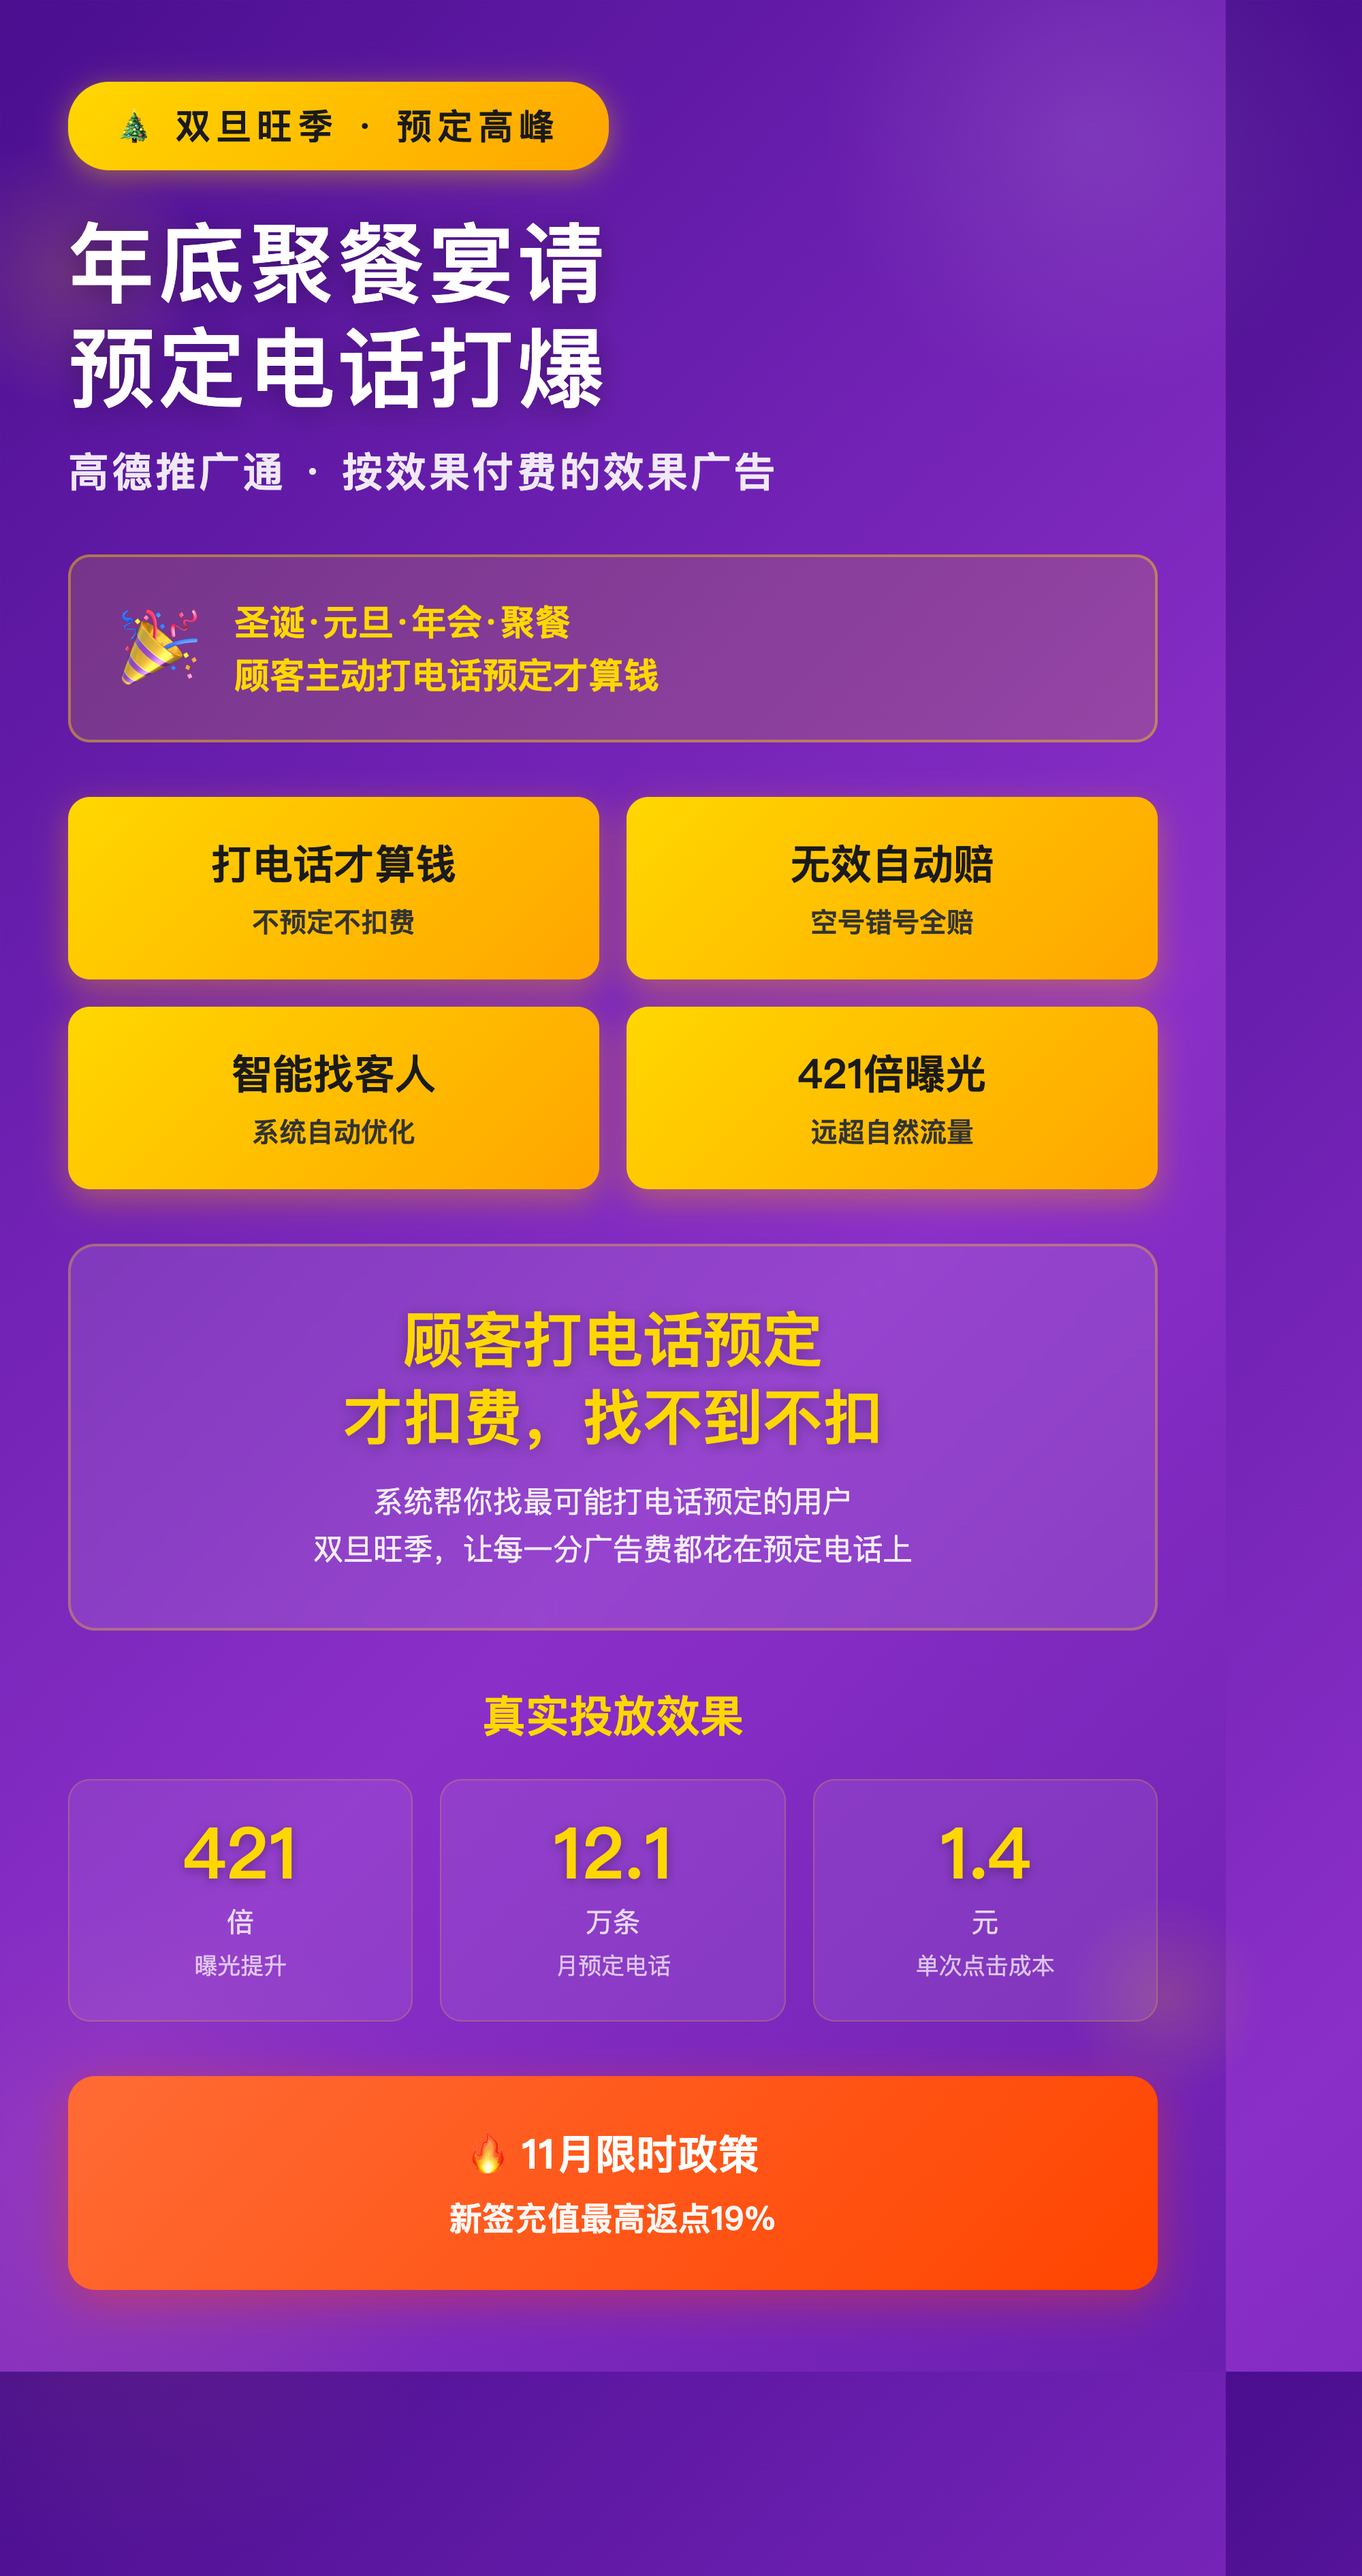
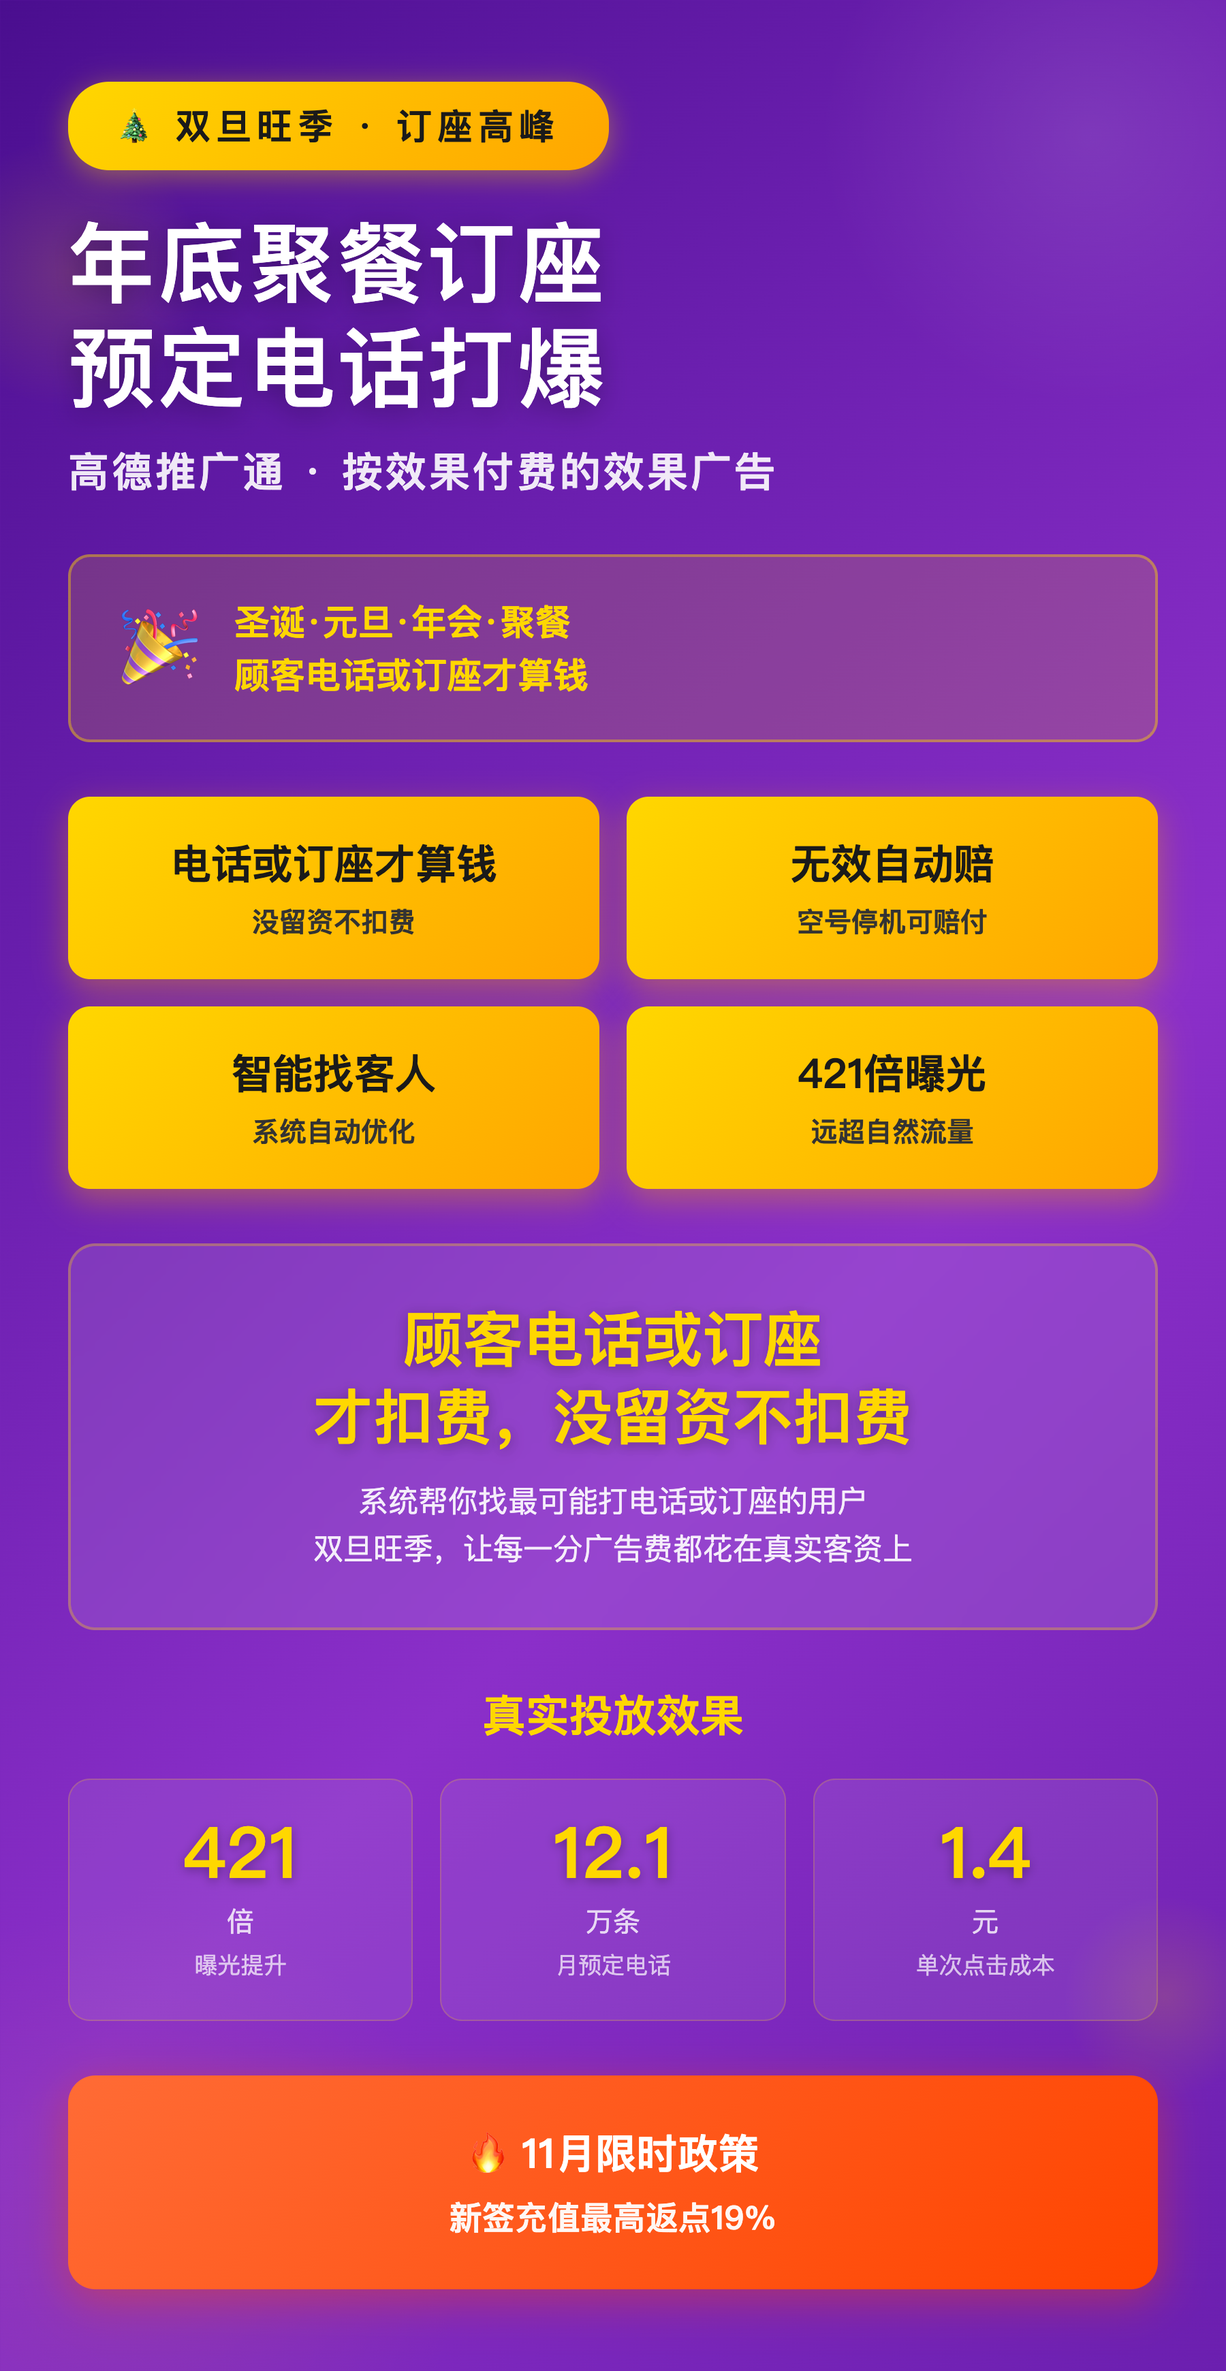
修正无效客资判定规则表述 + 更新双旦商户海报文案
培训页按《无效线索赔付规则说明》原文改为穷举4类（号码异常/3次回访无法接通/推销政府回访/找人应聘），
明确用户取消、未到店、单次未接不属于无效客资。
海报文案统一为"年底聚餐订座""顾客电话或订座才算钱，没留资不扣费"，去掉"一分钱不花"等绝对化表述。

diff --git a/ocpc-training.html b/ocpc-training.html
@@ -413,7 +413,7 @@ body{background:var(--cream);color:var(--dark);font-family:-apple-system,"PingFa
 <!-- 1F: 商户端营销海报 -->
 <div class="card" style="border:2px solid var(--gold);background:linear-gradient(135deg,#FFF8E1,#FFF3CD)">
 <h3>商户端营销海报（可直接转发商户）</h3>
-<p style="margin-bottom:14px">以下海报面向商户，绑定双旦年底聚餐宴请场景，突出"打电话预定才算钱"核心卖点，可直接用于朋友圈/社群传播。<span class="source-tag">内部制作</span></p>
+<p style="margin-bottom:14px">以下海报面向商户，绑定双旦年底聚餐订座场景，突出"电话或订座才算钱、没留资不扣费"核心卖点，可直接用于朋友圈/社群传播。<span class="source-tag">内部制作</span></p>
 <div style="display:grid;grid-template-columns:1fr 1fr;gap:20px;margin-bottom:14px">
 <div>
 <img src="客资海报_巨量风格.png" alt="客资产品商户营销海报-巨量风格" style="width:100%;border-radius:12px;box-shadow:0 4px 20px rgba(0,0,0,.15)">
@@ -558,7 +558,14 @@ body{background:var(--cream);color:var(--dark);font-family:-apple-system,"PingFa
 <h3 style="font-size:20px">无效客资赔付机制</h3>
 <p>2026年9月1日起生效，平台自动识别、自动赔付。<span class="source-tag">来源：赔付规则文档</span></p>
 
-<p style="margin-top:12px"><b>什么是"无效客资"？</b>系统判定的无效计费客资线索，包括但不限于：空号/停机、未接通、用户取消、重复来电（去重）、非目标客户等。</p>
+<p style="margin-top:12px"><b>什么是"无效客资"？</b>规则明确列举了 4 类，前提是<b>已入库且已计费</b>的客资线索，且平台系统判定为无效。<span class="source-tag">来源：无效线索赔付规则说明</span></p>
+<div style="margin-top:10px;border-left:3px solid var(--red);padding-left:12px">
+<p><b>① 号码异常</b>：空号、停机。以平台提供的电话号码状态为准。</p>
+<p style="margin-top:6px"><b>② 3 次回访无法接通</b>：需在 <b>0-4 小时</b>（不含夜间）、<b>4-24 小时</b>、<b>24-48 小时</b>三个时段各完成一次回访，且三次通话结果均满足要求（关机、语音信箱／助手留言无振铃时长要求；其他状态需振铃 ≥ 35 秒，拒接需持续呼叫直至完成 35 秒）。<b>单次未接不算无效。</b></p>
+<p style="margin-top:6px"><b>③ 推销／政府回访</b>（仅电话类型客资）：用户向商家推销产品或服务、提出合作，或来自政府部门及下属单位的回访。</p>
+<p style="margin-top:6px"><b>④ 找人／应聘</b>（人才招募行业除外）：用户表明自己是某员工家属或朋友来电询问，或询问是否招聘、表达应聘意向。</p>
+<p style="margin-top:10px;color:var(--red);font-weight:600">注意：用户取消预定、未到店、单次未接，<b>都不在无效客资范围内</b>，不能直接判为无效。</p>
+</div>
 </div>
 
 <div class="explain-box">
@@ -602,7 +609,7 @@ body{background:var(--cream);color:var(--dark);font-family:-apple-system,"PingFa
 <div class="card">
 <h3>跟商户怎么解释赔付？</h3>
 <div class="gold-sentence" style="border-left-color:var(--green);background:#E8F5E9">
-"老板，平台有兜底机制。系统自动识别无效客资——空号、没接通的——每周三自动赔红包到您账户，不用您申请。只要您做到两件事：<b>第一，及时回拨用户电话（回呼率超过30%）；第二，在后台给客资标注状态（标注率超过30%）</b>。两项都做到就全赔，做到一项赔一半，都不做就不赔。"
+"老板，平台有兜底机制。系统自动识别无效客资——空号停机的、还有回访三次都打不通的——每周三自动赔红包到您账户，不用您申请。只要您做到两件事：<b>第一，及时回拨用户电话（回呼率超过30%）；第二，在后台给客资标注状态（标注率超过30%）</b>。两项都做到就全赔，做到一项赔一半，都不做就不赔。"
 </div>
 </div>
 </div>
